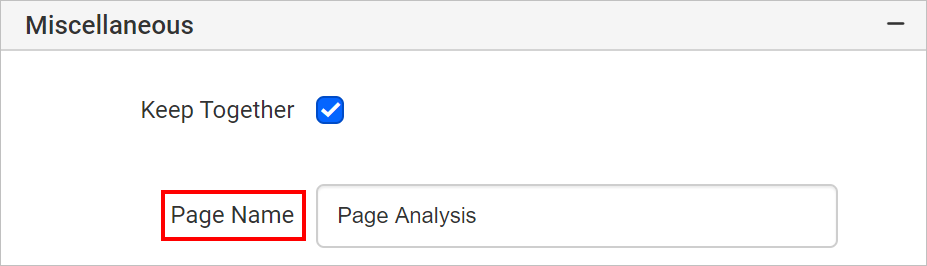
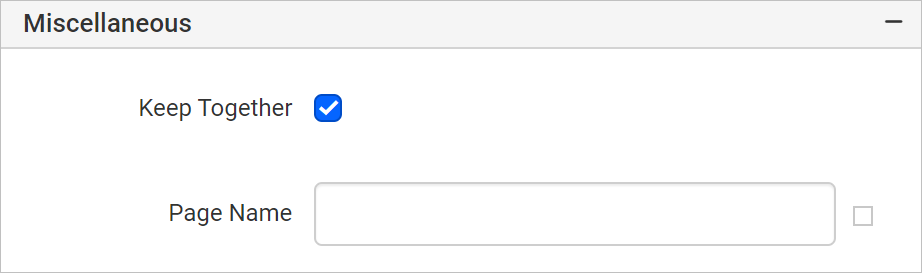
documentation(REPORT-5417): Added 2.4 released features in UG.

diff --git a/docs/designer-guide/report-designer/report-items/rectangle.md b/docs/designer-guide/report-designer/report-items/rectangle.md
@@ -66,6 +66,8 @@ The page name property is used to name the first worksheet of the Excel workbook
 
 ![Page name property](/static/assets/on-premise/images/report-designer/report-items/rectangle/page-name-property.png)
 
+You can set the static or dynamic text as page name. To set and reset dynamic text, refer [Set Expression](./../../compose-report/properties-panel/#set-expression) and [Reset Expression](./../../compose-report/properties-panel/#reset-expression) section.
+
 #### Custom attributes
 
 This property can be used to set the values for rectangle custom properties. To create and assign values for custom properties using properties panel refer [Custom Properties](./../../compose-report/common-properties/#custom-properties) section.
